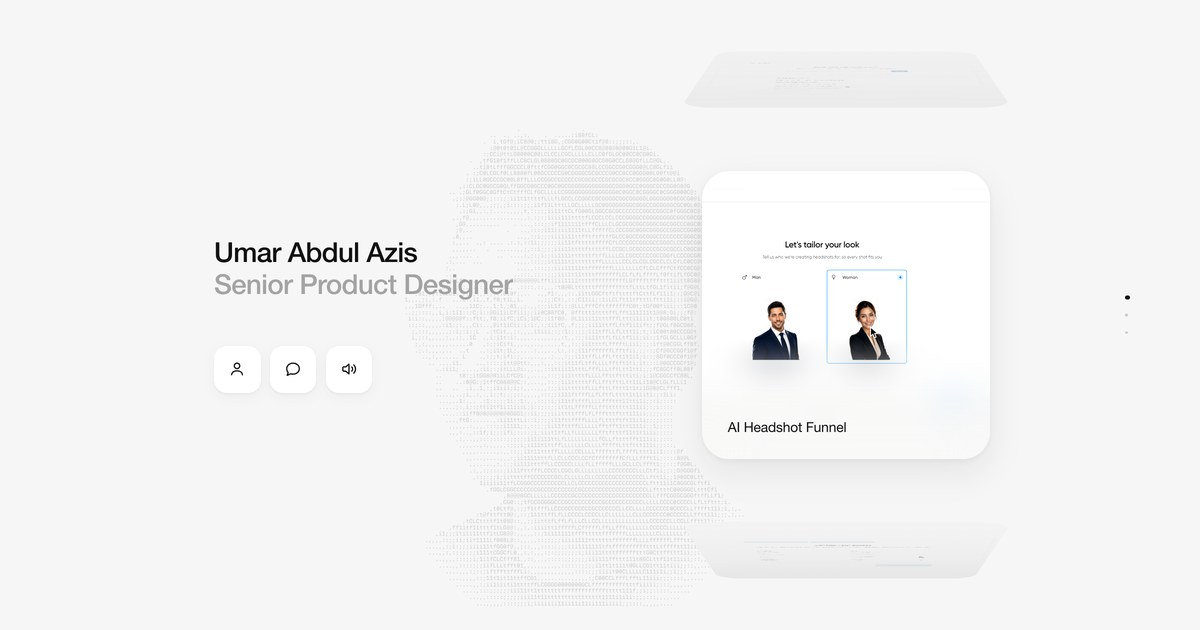
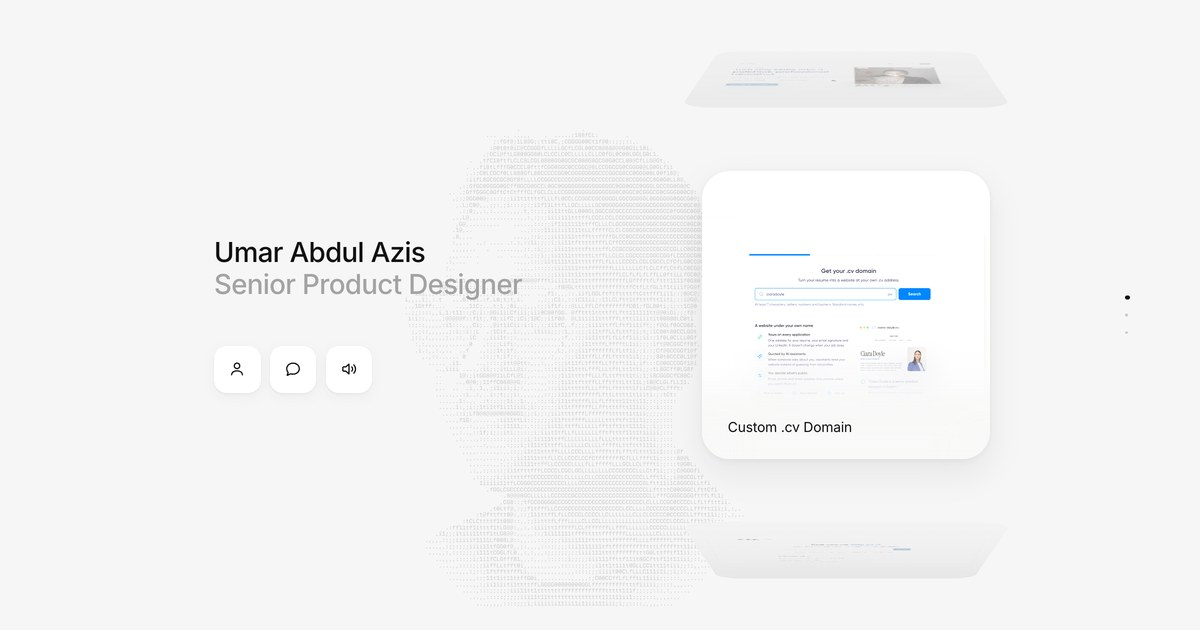
Urutan project: Custom .cv Domain, CV-Lite Help Center, AI Headshot Funnel
Thumbnail berbagi diambil ulang karena kartu pertama di home berubah.

diff --git a/app.js b/app.js
@@ -48,45 +48,6 @@ const PROFILE = {
    Selama array ini kosong, home cuma menampilkan nama dan tombol. */
 const PROJECTS = [
   {
-    "slug": "ai-headshots",
-    "name": "AI Headshot Funnel",
-    "role": "CV-Lite - Product Design",
-    "credit": "CV-Lite by Resumedone, 2026",
-    "live": "",
-    "mandate": "CV-Lite turns a few selfies into studio headshots, and most of its visitors arrive cold from paid ads. I was asked to redesign the whole funnel for an A/B test against the live version, from the landing page to the photo library. The old flow showed no proof of the result, left empty photo slots, and only revealed the price at the very end.",
-    "challenge": "People have to trust an unknown AI with their face, then pay before they see the full result. Ad traffic leaves fast, so every second of doubt costs a sale. On real screens the browser bar also takes around 180 px, which pushed the button that moves people forward below the fold on laptops and phones alike.",
-    "solution": "I built the funnel around one idea: show the transformation before asking for anything. The landing hero is a before and after of the same person, and every step stays short: gender, outfit, background, selfies. The paywall unlocks two finished headshots and states one honest price. Each screen is laid out at the real visible area, 1920 × 900 on desktop and 390 × 664 on mobile, so the next action is always in view.",
-    "results": "Targets set for the A/B test: 20% more visitors reaching the selfie upload, 15% higher paywall conversion, and a third fewer checkout drop-offs by showing the price up front. Built on 75 screens, 65 of them reworked so the main action never needs a scroll.",
-    "awards": [],
-    "card": {
-      "mp4": "media/headshots-media-01.mp4?v=202610171719",
-      "webm": "media/headshots-media-01.webm?v=202610171719",
-      "poster": "media/headshots-media-01-poster.webp?v=202610171719"
-    },
-    "scenes": [
-      {
-        "mp4": "media/headshots-media-01.mp4?v=202610171719",
-        "webm": "media/headshots-media-01.webm?v=202610171719",
-        "poster": "media/headshots-media-01-poster.webp?v=202610171719"
-      },
-      {
-        "mp4": "media/headshots-media-02.mp4?v=202610171719",
-        "webm": "media/headshots-media-02.webm?v=202610171719",
-        "poster": "media/headshots-media-02-poster.webp?v=202610171719"
-      },
-      {
-        "mp4": "media/headshots-media-03.mp4?v=202610171719",
-        "webm": "media/headshots-media-03.webm?v=202610171719",
-        "poster": "media/headshots-media-03-poster.webp?v=202610171719"
-      },
-      {
-        "mp4": "media/headshots-media-04.mp4?v=202610171719",
-        "webm": "media/headshots-media-04.webm?v=202610171719",
-        "poster": "media/headshots-media-04-poster.webp?v=202610171719"
-      }
-    ]
-  },
-  {
     "slug": "cv-personal-website",
     "name": "Custom .cv Domain",
     "role": "Resumedone - Product Design",
@@ -98,30 +59,30 @@ const PROJECTS = [
     "results": "Targets set for launch: 8% of paid users adding a .cv domain in the first quarter, 70% of buyers publishing their site within a day, and 12% higher annual retention among users with a live site. Delivered as 141 dashboard screens, a mobile editor and five templates, with a screen for every failure state.",
     "awards": [],
     "card": {
-      "mp4": "media/cv-media-01.mp4?v=202610171719",
-      "webm": "media/cv-media-01.webm?v=202610171719",
-      "poster": "media/cv-media-01-poster.webp?v=202610171719"
+      "mp4": "media/cv-media-01.mp4?v=202610171734",
+      "webm": "media/cv-media-01.webm?v=202610171734",
+      "poster": "media/cv-media-01-poster.webp?v=202610171734"
     },
     "scenes": [
       {
-        "mp4": "media/cv-media-01.mp4?v=202610171719",
-        "webm": "media/cv-media-01.webm?v=202610171719",
-        "poster": "media/cv-media-01-poster.webp?v=202610171719"
+        "mp4": "media/cv-media-01.mp4?v=202610171734",
+        "webm": "media/cv-media-01.webm?v=202610171734",
+        "poster": "media/cv-media-01-poster.webp?v=202610171734"
       },
       {
-        "mp4": "media/cv-media-02.mp4?v=202610171719",
-        "webm": "media/cv-media-02.webm?v=202610171719",
-        "poster": "media/cv-media-02-poster.webp?v=202610171719"
+        "mp4": "media/cv-media-02.mp4?v=202610171734",
+        "webm": "media/cv-media-02.webm?v=202610171734",
+        "poster": "media/cv-media-02-poster.webp?v=202610171734"
       },
       {
-        "mp4": "media/cv-media-03.mp4?v=202610171719",
-        "webm": "media/cv-media-03.webm?v=202610171719",
-        "poster": "media/cv-media-03-poster.webp?v=202610171719"
+        "mp4": "media/cv-media-03.mp4?v=202610171734",
+        "webm": "media/cv-media-03.webm?v=202610171734",
+        "poster": "media/cv-media-03-poster.webp?v=202610171734"
       },
       {
-        "mp4": "media/cv-media-04.mp4?v=202610171719",
-        "webm": "media/cv-media-04.webm?v=202610171719",
-        "poster": "media/cv-media-04-poster.webp?v=202610171719"
+        "mp4": "media/cv-media-04.mp4?v=202610171734",
+        "webm": "media/cv-media-04.webm?v=202610171734",
+        "poster": "media/cv-media-04-poster.webp?v=202610171734"
       }
     ]
   },
@@ -137,30 +98,69 @@ const PROJECTS = [
     "results": "Targets set for launch: 25% fewer support tickets about the 13 most asked questions, 60% of visitors finding their answer within two clicks, and over 80% of article ratings marked helpful. Delivered as 24 boards across four widths, 32 article pages and a working coded prototype.",
     "awards": [],
     "card": {
-      "mp4": "media/faq-media-01.mp4?v=202610171719",
-      "webm": "media/faq-media-01.webm?v=202610171719",
-      "poster": "media/faq-media-01-poster.webp?v=202610171719"
+      "mp4": "media/faq-media-01.mp4?v=202610171734",
+      "webm": "media/faq-media-01.webm?v=202610171734",
+      "poster": "media/faq-media-01-poster.webp?v=202610171734"
     },
     "scenes": [
       {
-        "mp4": "media/faq-media-01.mp4?v=202610171719",
-        "webm": "media/faq-media-01.webm?v=202610171719",
-        "poster": "media/faq-media-01-poster.webp?v=202610171719"
+        "mp4": "media/faq-media-01.mp4?v=202610171734",
+        "webm": "media/faq-media-01.webm?v=202610171734",
+        "poster": "media/faq-media-01-poster.webp?v=202610171734"
       },
       {
-        "mp4": "media/faq-media-02.mp4?v=202610171719",
-        "webm": "media/faq-media-02.webm?v=202610171719",
-        "poster": "media/faq-media-02-poster.webp?v=202610171719"
+        "mp4": "media/faq-media-02.mp4?v=202610171734",
+        "webm": "media/faq-media-02.webm?v=202610171734",
+        "poster": "media/faq-media-02-poster.webp?v=202610171734"
       },
       {
-        "mp4": "media/faq-media-03.mp4?v=202610171719",
-        "webm": "media/faq-media-03.webm?v=202610171719",
-        "poster": "media/faq-media-03-poster.webp?v=202610171719"
+        "mp4": "media/faq-media-03.mp4?v=202610171734",
+        "webm": "media/faq-media-03.webm?v=202610171734",
+        "poster": "media/faq-media-03-poster.webp?v=202610171734"
       },
       {
-        "mp4": "media/faq-media-04.mp4?v=202610171719",
-        "webm": "media/faq-media-04.webm?v=202610171719",
-        "poster": "media/faq-media-04-poster.webp?v=202610171719"
+        "mp4": "media/faq-media-04.mp4?v=202610171734",
+        "webm": "media/faq-media-04.webm?v=202610171734",
+        "poster": "media/faq-media-04-poster.webp?v=202610171734"
+      }
+    ]
+  },
+  {
+    "slug": "ai-headshots",
+    "name": "AI Headshot Funnel",
+    "role": "CV-Lite - Product Design",
+    "credit": "CV-Lite by Resumedone, 2026",
+    "live": "",
+    "mandate": "CV-Lite turns a few selfies into studio headshots, and most of its visitors arrive cold from paid ads. I was asked to redesign the whole funnel for an A/B test against the live version, from the landing page to the photo library. The old flow showed no proof of the result, left empty photo slots, and only revealed the price at the very end.",
+    "challenge": "People have to trust an unknown AI with their face, then pay before they see the full result. Ad traffic leaves fast, so every second of doubt costs a sale. On real screens the browser bar also takes around 180 px, which pushed the button that moves people forward below the fold on laptops and phones alike.",
+    "solution": "I built the funnel around one idea: show the transformation before asking for anything. The landing hero is a before and after of the same person, and every step stays short: gender, outfit, background, selfies. The paywall unlocks two finished headshots and states one honest price. Each screen is laid out at the real visible area, 1920 × 900 on desktop and 390 × 664 on mobile, so the next action is always in view.",
+    "results": "Targets set for the A/B test: 20% more visitors reaching the selfie upload, 15% higher paywall conversion, and a third fewer checkout drop-offs by showing the price up front. Built on 75 screens, 65 of them reworked so the main action never needs a scroll.",
+    "awards": [],
+    "card": {
+      "mp4": "media/headshots-media-01.mp4?v=202610171734",
+      "webm": "media/headshots-media-01.webm?v=202610171734",
+      "poster": "media/headshots-media-01-poster.webp?v=202610171734"
+    },
+    "scenes": [
+      {
+        "mp4": "media/headshots-media-01.mp4?v=202610171734",
+        "webm": "media/headshots-media-01.webm?v=202610171734",
+        "poster": "media/headshots-media-01-poster.webp?v=202610171734"
+      },
+      {
+        "mp4": "media/headshots-media-02.mp4?v=202610171734",
+        "webm": "media/headshots-media-02.webm?v=202610171734",
+        "poster": "media/headshots-media-02-poster.webp?v=202610171734"
+      },
+      {
+        "mp4": "media/headshots-media-03.mp4?v=202610171734",
+        "webm": "media/headshots-media-03.webm?v=202610171734",
+        "poster": "media/headshots-media-03-poster.webp?v=202610171734"
+      },
+      {
+        "mp4": "media/headshots-media-04.mp4?v=202610171734",
+        "webm": "media/headshots-media-04.webm?v=202610171734",
+        "poster": "media/headshots-media-04-poster.webp?v=202610171734"
       }
     ]
   }

diff --git a/index.html b/index.html
@@ -21,9 +21,9 @@
 <meta name="twitter:image" content="https://byumar.com/og-image.jpg">
 <!-- ?v= memaksa browser mengambil berkas baru. Hostinger menyimpan JS, CSS, dan
      media 7 hari, jalankan ./versi.sh sebelum commit supaya angkanya naik di semua file. -->
-<link rel="preload" href="fonts/inter-regular.woff2?v=202610171719" as="font" type="font/woff2" crossorigin>
-<link rel="preload" href="fonts/inter-medium.woff2?v=202610171719" as="font" type="font/woff2" crossorigin>
-<link rel="stylesheet" href="styles.css?v=202610171719">
+<link rel="preload" href="fonts/inter-regular.woff2?v=202610171734" as="font" type="font/woff2" crossorigin>
+<link rel="preload" href="fonts/inter-medium.woff2?v=202610171734" as="font" type="font/woff2" crossorigin>
+<link rel="stylesheet" href="styles.css?v=202610171734">
 </head>
 <body>
   <!-- navigasi teks untuk screen reader & crawler, tidak terlihat -->
@@ -49,8 +49,8 @@
        hanya dipakai halaman about, jadi diambil saat halaman itu dibuka.
        Lihat ensureGlobe() di app.js. -->
   <!-- latar ASCII dari foto diri, lihat ascii-bg.js -->
-  <script src="ascii-bg.js?v=202610171719" defer></script>
-  <script src="sound.js?v=202610171719" defer></script>
-  <script src="app.js?v=202610171719" defer></script>
+  <script src="ascii-bg.js?v=202610171734" defer></script>
+  <script src="sound.js?v=202610171734" defer></script>
+  <script src="app.js?v=202610171734" defer></script>
 </body>
 </html>

diff --git a/styles.css b/styles.css
@@ -3,14 +3,14 @@
   font-style: normal;
   font-weight: 400;
   font-display: swap;
-  src: url("fonts/inter-regular.woff2?v=202610171719") format("woff2");
+  src: url("fonts/inter-regular.woff2?v=202610171734") format("woff2");
 }
 @font-face {
   font-family: "Inter";
   font-style: normal;
   font-weight: 500;
   font-display: swap;
-  src: url("fonts/inter-medium.woff2?v=202610171719") format("woff2");
+  src: url("fonts/inter-medium.woff2?v=202610171734") format("woff2");
 }
 
 /* =========================================================
